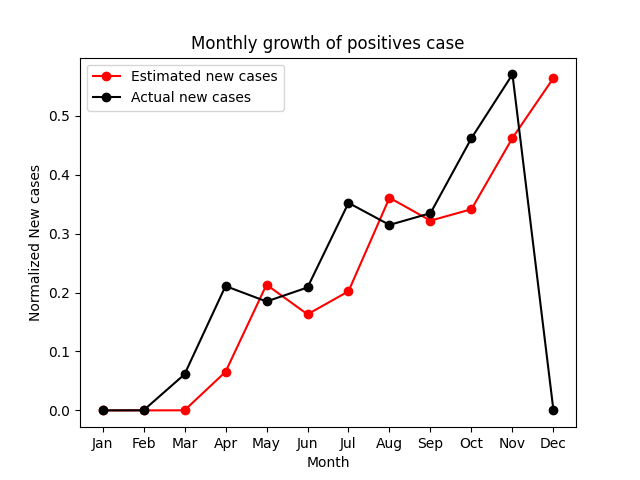
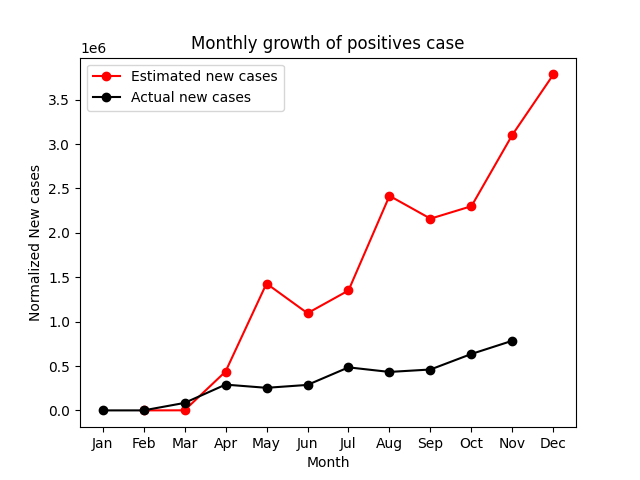
minor fixes

diff --git a/main.py b/main.py
@@ -278,8 +278,8 @@ def plot_visualizations(data):
     )
 
     plot_new_cases(months, \
-        fetch_normalize_data(list(map(lambda x: simulation_data[x].get('simulated_new_positive_cases', 0), simulation_data))), \
-        fetch_normalize_data(list(map(lambda x: simulation_data[x].get('positive_cases', 0), simulation_data))) \
+        list(map(lambda x: simulation_data[x].get('simulated_new_positive_cases', None), simulation_data)), \
+        list(map(lambda x: simulation_data[x].get('positive_cases', None), simulation_data)) \
     )
     return
 

diff --git a/README.md b/README.md
@@ -24,13 +24,15 @@ The availability and periodic use of COVID-19 virus testing for asymptomatic peo
 
 ## Results:
 
-![image info](monthly_growth_rate.png)
-
+![image info](monthly_growth_rate.png)\s\s
 The above visualization shows the estimated rate of growth in positive cases vs the actual rate of growth in positive cases.
 
-![image info](monthly_positive_cases.png)
+![image info](monthly_positive_cases.png)\s\s
+The above visualization shows the estimated new positive cases vs the actual new positive cases. The graph has no value in the actual new cases for the month of December because of missing data for December in the data source.
 
-The above visualization shows the estimated new positive cases vs the actual new positive cases. The dip in december in the actual new cases is because of missing data for december.
+## Conclusion:
+
+As seen from the above visualizations, had there been no testing centers, asymptotic patients being unaware of the infection may spread the virus to a significantly larger population.
 
 ### Data Sources
 1. https://data.cdc.gov/Case-Surveillance/COVID-19-Case-Surveillance-Public-Use-Data/vbim-akqf/data
